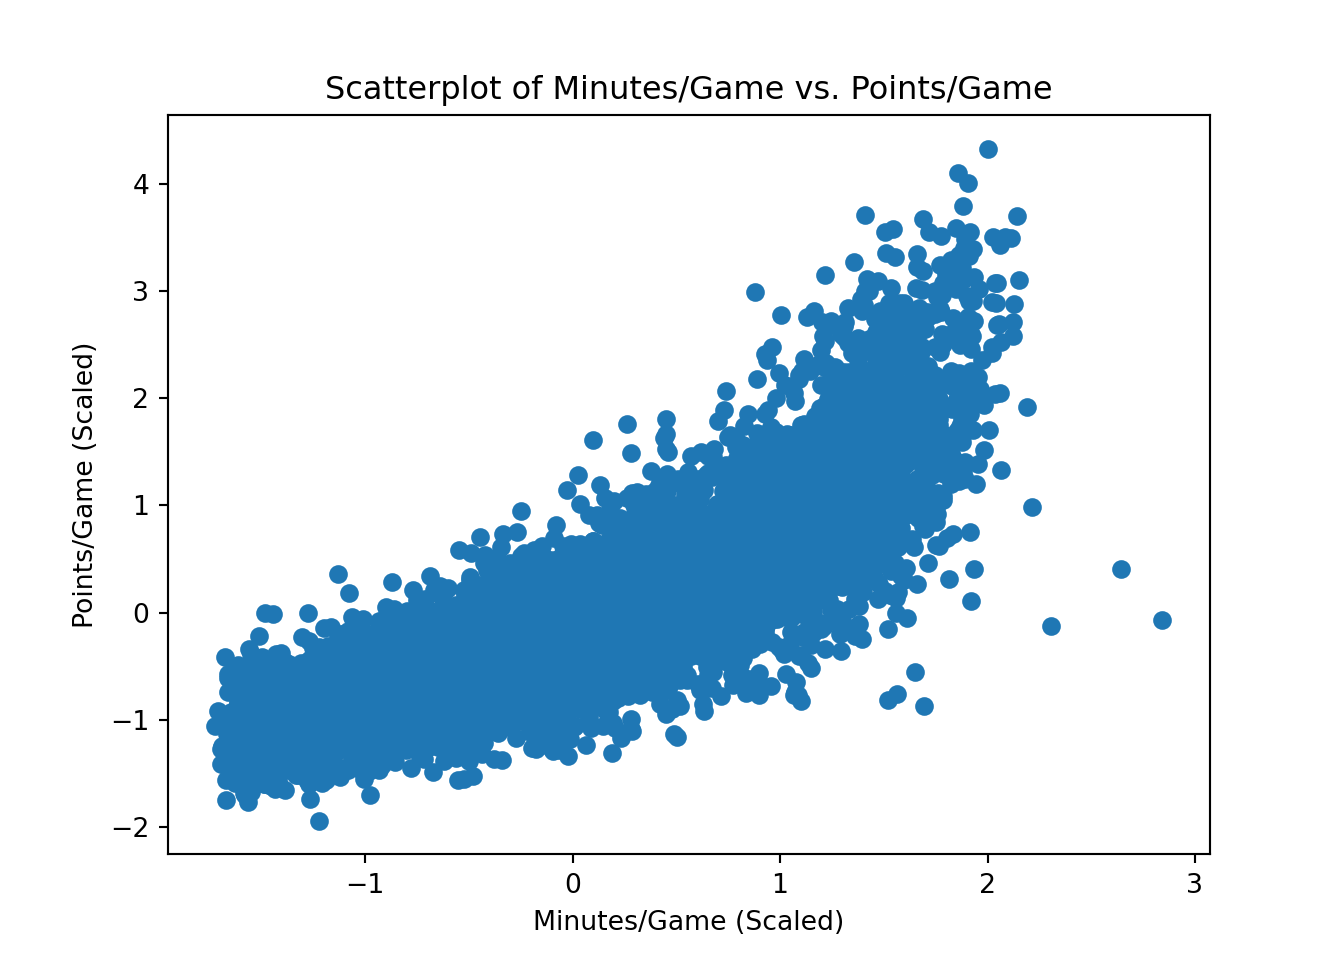
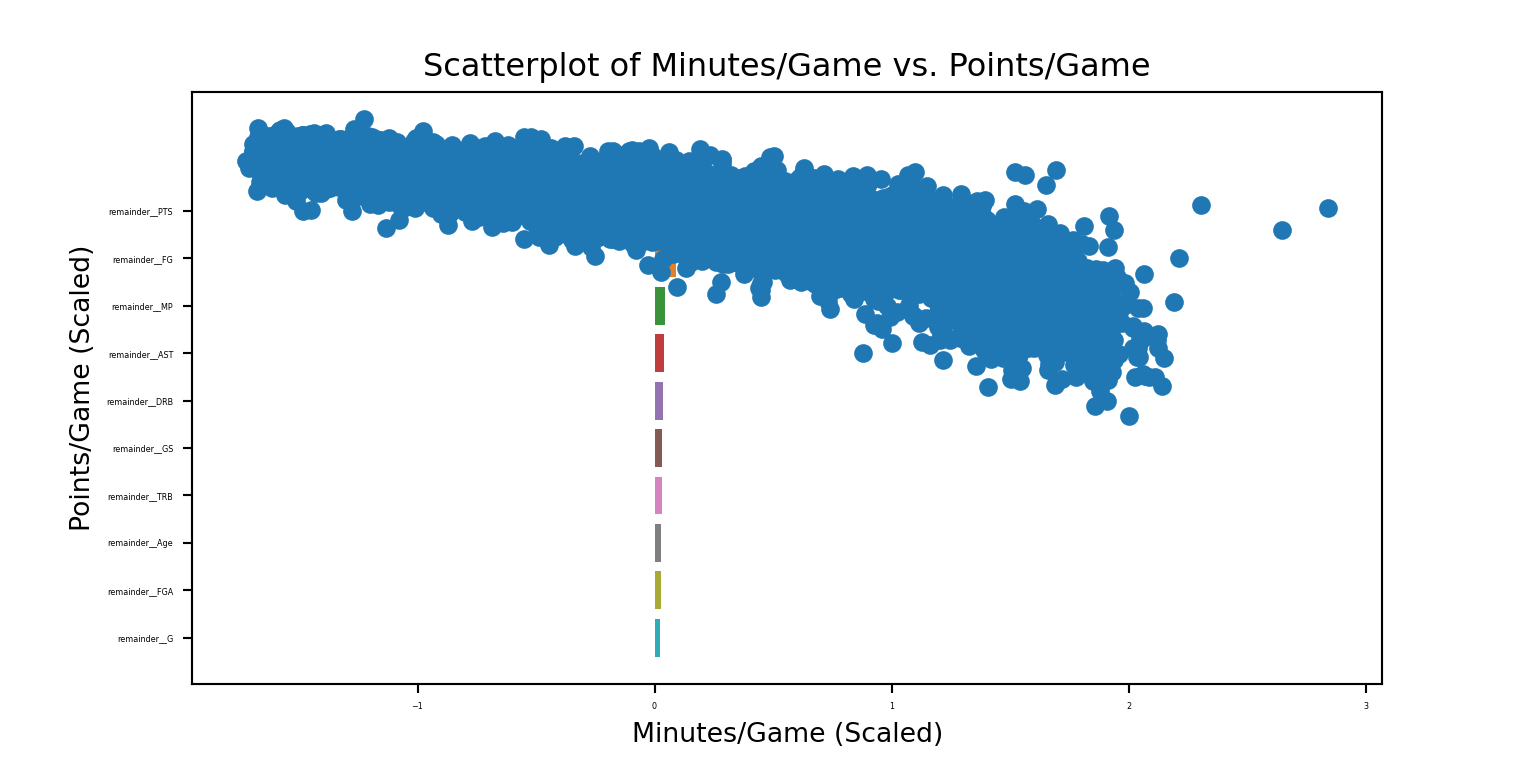
update importance bug

diff --git a/docs/index.html b/docs/index.html
@@ -395,7 +395,7 @@ set.</p>
 generally have better stats than the average player; it is also important to remember that minutes played per game
 likely plays a large role in statistics as well. Let’s take a look at some of these variables visually.</p>
 <p>First, let’s see how minutes and points correlate.
-<img src="bookdownproj_files/figure-html/unnamed-chunk-21-1.png" width="672" /></p>
+<img src="bookdownproj_files/figure-html/unnamed-chunk-21-1.png" width="768" /></p>
 <p>As we can see, there is a pretty clear positive, linear relationship between the variables. However, one thing
 to note is how after the scaled minutes per game value exceeds 1, the points per game values seem to increase at a
 slightly steeper rate. This could be, as previously mentioned, the fact that the best players play the most
@@ -406,18 +406,18 @@ minutes and are also the ones scoring the most points.</p>
 <span id="cb23-3"><a href="#cb23-3" aria-hidden="true" tabindex="-1"></a>plt.title(<span class="st">&#39;Boxplot of Points/Game by All-Star Status&#39;</span>)</span>
 <span id="cb23-4"><a href="#cb23-4" aria-hidden="true" tabindex="-1"></a>plt.xlabel(<span class="st">&#39;All-Star Status&#39;</span>)</span>
 <span id="cb23-5"><a href="#cb23-5" aria-hidden="true" tabindex="-1"></a>plt.ylabel(<span class="st">&#39;Points/Game (Scaled)&#39;</span>)</span></code></pre></div>
-<p><img src="bookdownproj_files/figure-html/unnamed-chunk-22-3.png" width="672" />
+<p><img src="bookdownproj_files/figure-html/unnamed-chunk-22-3.png" width="768" />
 Unsurprisingly, All-Stars generally score at a much more standout level than their peers. In fact,
 the median scoring value for an All-Star is about 2 standard deviations from league standard, which encompasses
 roughly the top 5% of scorers in the league. It is also noted that there were outliers for All-Stars that scored
 below the league standard.</p>
 <p>Next, let’s look at how field goal % compares across All-Star status.
-<img src="bookdownproj_files/figure-html/unnamed-chunk-23-5.png" width="672" /></p>
+<img src="bookdownproj_files/figure-html/unnamed-chunk-23-5.png" width="768" /></p>
 <p>Interesting to see how the medians across both groups are roughly at 0, or league standard. However, the most
 notable observation here is how the spread of the non-All-Stars is vastly larger than the All-Stars, stretching
 down as far as nearly 8 standard deviations below the mean.</p>
 <p>Lastly, let’s look at a correlation matrix across all of our variables.
-<img src="bookdownproj_files/figure-html/unnamed-chunk-24-7.png" width="672" /></p>
+<img src="bookdownproj_files/figure-html/unnamed-chunk-24-7.png" width="768" /></p>
 <p>While a bit difficult to interpret easily, there are a few interesting takeaways. First, Field Goal % seems to
 have a strong, negative correlation with other shooting statistics. This may represent players who
 take very few shots, but make them at a high clip, leaving them with high shooting percentages with low attempts.
@@ -464,7 +464,7 @@ the ROC curve (AUROC) to serve as our cross-validation metric.</p>
 <div class="sourceCode" id="cb30"><pre class="sourceCode python"><code class="sourceCode python"><span id="cb30-1"><a href="#cb30-1" aria-hidden="true" tabindex="-1"></a><span class="co">#Fit model</span></span>
 <span id="cb30-2"><a href="#cb30-2" aria-hidden="true" tabindex="-1"></a>tick <span class="op">=</span> time.time()</span>
 <span id="cb30-3"><a href="#cb30-3" aria-hidden="true" tabindex="-1"></a>clf.fit(X_train,Y_train)</span></code></pre></div>
-<style>#sk-container-id-1 {color: black;background-color: white;}#sk-container-id-1 pre{padding: 0;}#sk-container-id-1 div.sk-toggleable {background-color: white;}#sk-container-id-1 label.sk-toggleable__label {cursor: pointer;display: block;width: 100%;margin-bottom: 0;padding: 0.3em;box-sizing: border-box;text-align: center;}#sk-container-id-1 label.sk-toggleable__label-arrow:before {content: "▸";float: left;margin-right: 0.25em;color: #696969;}#sk-container-id-1 label.sk-toggleable__label-arrow:hover:before {color: black;}#sk-container-id-1 div.sk-estimator:hover label.sk-toggleable__label-arrow:before {color: black;}#sk-container-id-1 div.sk-toggleable__content {max-height: 0;max-width: 0;overflow: hidden;text-align: left;background-color: #f0f8ff;}#sk-container-id-1 div.sk-toggleable__content pre {margin: 0.2em;color: black;border-radius: 0.25em;background-color: #f0f8ff;}#sk-container-id-1 input.sk-toggleable__control:checked~div.sk-toggleable__content {max-height: 200px;max-width: 100%;overflow: auto;}#sk-container-id-1 input.sk-toggleable__control:checked~label.sk-toggleable__label-arrow:before {content: "▾";}#sk-container-id-1 div.sk-estimator input.sk-toggleable__control:checked~label.sk-toggleable__label {background-color: #d4ebff;}#sk-container-id-1 div.sk-label input.sk-toggleable__control:checked~label.sk-toggleable__label {background-color: #d4ebff;}#sk-container-id-1 input.sk-hidden--visually {border: 0;clip: rect(1px 1px 1px 1px);clip: rect(1px, 1px, 1px, 1px);height: 1px;margin: -1px;overflow: hidden;padding: 0;position: absolute;width: 1px;}#sk-container-id-1 div.sk-estimator {font-family: monospace;background-color: #f0f8ff;border: 1px dotted black;border-radius: 0.25em;box-sizing: border-box;margin-bottom: 0.5em;}#sk-container-id-1 div.sk-estimator:hover {background-color: #d4ebff;}#sk-container-id-1 div.sk-parallel-item::after {content: "";width: 100%;border-bottom: 1px solid gray;flex-grow: 1;}#sk-container-id-1 div.sk-label:hover label.sk-toggleable__label {background-color: #d4ebff;}#sk-container-id-1 div.sk-serial::before {content: "";position: absolute;border-left: 1px solid gray;box-sizing: border-box;top: 0;bottom: 0;left: 50%;z-index: 0;}#sk-container-id-1 div.sk-serial {display: flex;flex-direction: column;align-items: center;background-color: white;padding-right: 0.2em;padding-left: 0.2em;position: relative;}#sk-container-id-1 div.sk-item {position: relative;z-index: 1;}#sk-container-id-1 div.sk-parallel {display: flex;align-items: stretch;justify-content: center;background-color: white;position: relative;}#sk-container-id-1 div.sk-item::before, #sk-container-id-1 div.sk-parallel-item::before {content: "";position: absolute;border-left: 1px solid gray;box-sizing: border-box;top: 0;bottom: 0;left: 50%;z-index: -1;}#sk-container-id-1 div.sk-parallel-item {display: flex;flex-direction: column;z-index: 1;position: relative;background-color: white;}#sk-container-id-1 div.sk-parallel-item:first-child::after {align-self: flex-end;width: 50%;}#sk-container-id-1 div.sk-parallel-item:last-child::after {align-self: flex-start;width: 50%;}#sk-container-id-1 div.sk-parallel-item:only-child::after {width: 0;}#sk-container-id-1 div.sk-dashed-wrapped {border: 1px dashed gray;margin: 0 0.4em 0.5em 0.4em;box-sizing: border-box;padding-bottom: 0.4em;background-color: white;}#sk-container-id-1 div.sk-label label {font-family: monospace;font-weight: bold;display: inline-block;line-height: 1.2em;}#sk-container-id-1 div.sk-label-container {text-align: center;}#sk-container-id-1 div.sk-container {/* jupyter's `normalize.less` sets `[hidden] { display: none; }` but bootstrap.min.css set `[hidden] { display: none !important; }` so we also need the `!important` here to be able to override the default hidden behavior on the sphinx rendered scikit-learn.org. See: https://github.com/scikit-learn/scikit-learn/issues/21755 */display: inline-block !important;position: relative;}#sk-container-id-1 div.sk-text-repr-fallback {display: none;}</style><div id="sk-container-id-1" class="sk-top-container"><div class="sk-text-repr-fallback"><pre>GridSearchCV(cv=RepeatedStratifiedKFold(n_repeats=3, n_splits=10, random_state=0),
+<style>#sk-container-id-2 {color: black;background-color: white;}#sk-container-id-2 pre{padding: 0;}#sk-container-id-2 div.sk-toggleable {background-color: white;}#sk-container-id-2 label.sk-toggleable__label {cursor: pointer;display: block;width: 100%;margin-bottom: 0;padding: 0.3em;box-sizing: border-box;text-align: center;}#sk-container-id-2 label.sk-toggleable__label-arrow:before {content: "▸";float: left;margin-right: 0.25em;color: #696969;}#sk-container-id-2 label.sk-toggleable__label-arrow:hover:before {color: black;}#sk-container-id-2 div.sk-estimator:hover label.sk-toggleable__label-arrow:before {color: black;}#sk-container-id-2 div.sk-toggleable__content {max-height: 0;max-width: 0;overflow: hidden;text-align: left;background-color: #f0f8ff;}#sk-container-id-2 div.sk-toggleable__content pre {margin: 0.2em;color: black;border-radius: 0.25em;background-color: #f0f8ff;}#sk-container-id-2 input.sk-toggleable__control:checked~div.sk-toggleable__content {max-height: 200px;max-width: 100%;overflow: auto;}#sk-container-id-2 input.sk-toggleable__control:checked~label.sk-toggleable__label-arrow:before {content: "▾";}#sk-container-id-2 div.sk-estimator input.sk-toggleable__control:checked~label.sk-toggleable__label {background-color: #d4ebff;}#sk-container-id-2 div.sk-label input.sk-toggleable__control:checked~label.sk-toggleable__label {background-color: #d4ebff;}#sk-container-id-2 input.sk-hidden--visually {border: 0;clip: rect(1px 1px 1px 1px);clip: rect(1px, 1px, 1px, 1px);height: 1px;margin: -1px;overflow: hidden;padding: 0;position: absolute;width: 1px;}#sk-container-id-2 div.sk-estimator {font-family: monospace;background-color: #f0f8ff;border: 1px dotted black;border-radius: 0.25em;box-sizing: border-box;margin-bottom: 0.5em;}#sk-container-id-2 div.sk-estimator:hover {background-color: #d4ebff;}#sk-container-id-2 div.sk-parallel-item::after {content: "";width: 100%;border-bottom: 1px solid gray;flex-grow: 1;}#sk-container-id-2 div.sk-label:hover label.sk-toggleable__label {background-color: #d4ebff;}#sk-container-id-2 div.sk-serial::before {content: "";position: absolute;border-left: 1px solid gray;box-sizing: border-box;top: 0;bottom: 0;left: 50%;z-index: 0;}#sk-container-id-2 div.sk-serial {display: flex;flex-direction: column;align-items: center;background-color: white;padding-right: 0.2em;padding-left: 0.2em;position: relative;}#sk-container-id-2 div.sk-item {position: relative;z-index: 1;}#sk-container-id-2 div.sk-parallel {display: flex;align-items: stretch;justify-content: center;background-color: white;position: relative;}#sk-container-id-2 div.sk-item::before, #sk-container-id-2 div.sk-parallel-item::before {content: "";position: absolute;border-left: 1px solid gray;box-sizing: border-box;top: 0;bottom: 0;left: 50%;z-index: -1;}#sk-container-id-2 div.sk-parallel-item {display: flex;flex-direction: column;z-index: 1;position: relative;background-color: white;}#sk-container-id-2 div.sk-parallel-item:first-child::after {align-self: flex-end;width: 50%;}#sk-container-id-2 div.sk-parallel-item:last-child::after {align-self: flex-start;width: 50%;}#sk-container-id-2 div.sk-parallel-item:only-child::after {width: 0;}#sk-container-id-2 div.sk-dashed-wrapped {border: 1px dashed gray;margin: 0 0.4em 0.5em 0.4em;box-sizing: border-box;padding-bottom: 0.4em;background-color: white;}#sk-container-id-2 div.sk-label label {font-family: monospace;font-weight: bold;display: inline-block;line-height: 1.2em;}#sk-container-id-2 div.sk-label-container {text-align: center;}#sk-container-id-2 div.sk-container {/* jupyter's `normalize.less` sets `[hidden] { display: none; }` but bootstrap.min.css set `[hidden] { display: none !important; }` so we also need the `!important` here to be able to override the default hidden behavior on the sphinx rendered scikit-learn.org. See: https://github.com/scikit-learn/scikit-learn/issues/21755 */display: inline-block !important;position: relative;}#sk-container-id-2 div.sk-text-repr-fallback {display: none;}</style><div id="sk-container-id-2" class="sk-top-container"><div class="sk-text-repr-fallback"><pre>GridSearchCV(cv=RepeatedStratifiedKFold(n_repeats=3, n_splits=10, random_state=0),
              estimator=XGBRegressor(base_score=None, booster=None,
                                     callbacks=None, colsample_bylevel=None,
                                     colsample_bynode=None,
@@ -483,7 +483,7 @@ the ROC curve (AUROC) to serve as our cross-validation metric.</p>
              param_grid={&#x27;max_depth&#x27;: [10, 15, 20],
                          &#x27;min_samples_split&#x27;: [5, 10],
                          &#x27;n_estimators&#x27;: [200, 400, 600]},
-             scoring=&#x27;roc_auc&#x27;)</pre><b>In a Jupyter environment, please rerun this cell to show the HTML representation or trust the notebook. <br />On GitHub, the HTML representation is unable to render, please try loading this page with nbviewer.org.</b></div><div class="sk-container" hidden><div class="sk-item sk-dashed-wrapped"><div class="sk-label-container"><div class="sk-label sk-toggleable"><input class="sk-toggleable__control sk-hidden--visually" id="sk-estimator-id-1" type="checkbox" ><label for="sk-estimator-id-1" class="sk-toggleable__label sk-toggleable__label-arrow">GridSearchCV</label><div class="sk-toggleable__content"><pre>GridSearchCV(cv=RepeatedStratifiedKFold(n_repeats=3, n_splits=10, random_state=0),
+             scoring=&#x27;roc_auc&#x27;)</pre><b>In a Jupyter environment, please rerun this cell to show the HTML representation or trust the notebook. <br />On GitHub, the HTML representation is unable to render, please try loading this page with nbviewer.org.</b></div><div class="sk-container" hidden><div class="sk-item sk-dashed-wrapped"><div class="sk-label-container"><div class="sk-label sk-toggleable"><input class="sk-toggleable__control sk-hidden--visually" id="sk-estimator-id-4" type="checkbox" ><label for="sk-estimator-id-4" class="sk-toggleable__label sk-toggleable__label-arrow">GridSearchCV</label><div class="sk-toggleable__content"><pre>GridSearchCV(cv=RepeatedStratifiedKFold(n_repeats=3, n_splits=10, random_state=0),
              estimator=XGBRegressor(base_score=None, booster=None,
                                     callbacks=None, colsample_bylevel=None,
                                     colsample_bynode=None,
@@ -502,7 +502,7 @@ the ROC curve (AUROC) to serve as our cross-validation metric.</p>
              param_grid={&#x27;max_depth&#x27;: [10, 15, 20],
                          &#x27;min_samples_split&#x27;: [5, 10],
                          &#x27;n_estimators&#x27;: [200, 400, 600]},
-             scoring=&#x27;roc_auc&#x27;)</pre></div></div></div><div class="sk-parallel"><div class="sk-parallel-item"><div class="sk-item"><div class="sk-label-container"><div class="sk-label sk-toggleable"><input class="sk-toggleable__control sk-hidden--visually" id="sk-estimator-id-2" type="checkbox" ><label for="sk-estimator-id-2" class="sk-toggleable__label sk-toggleable__label-arrow">estimator: XGBRegressor</label><div class="sk-toggleable__content"><pre>XGBRegressor(base_score=None, booster=None, callbacks=None,
+             scoring=&#x27;roc_auc&#x27;)</pre></div></div></div><div class="sk-parallel"><div class="sk-parallel-item"><div class="sk-item"><div class="sk-label-container"><div class="sk-label sk-toggleable"><input class="sk-toggleable__control sk-hidden--visually" id="sk-estimator-id-5" type="checkbox" ><label for="sk-estimator-id-5" class="sk-toggleable__label sk-toggleable__label-arrow">estimator: XGBRegressor</label><div class="sk-toggleable__content"><pre>XGBRegressor(base_score=None, booster=None, callbacks=None,
              colsample_bylevel=None, colsample_bynode=None,
              colsample_bytree=None, early_stopping_rounds=None,
              enable_categorical=False, eval_metric=None, feature_types=None,
@@ -512,7 +512,7 @@ the ROC curve (AUROC) to serve as our cross-validation metric.</p>
              max_delta_step=None, max_depth=None, max_leaves=None,
              min_child_weight=None, missing=nan, monotone_constraints=None,
              n_estimators=100, n_jobs=None, num_parallel_tree=None,
-             objective=&#x27;binary:logistic&#x27;, predictor=None, ...)</pre></div></div></div><div class="sk-serial"><div class="sk-item"><div class="sk-estimator sk-toggleable"><input class="sk-toggleable__control sk-hidden--visually" id="sk-estimator-id-3" type="checkbox" ><label for="sk-estimator-id-3" class="sk-toggleable__label sk-toggleable__label-arrow">XGBRegressor</label><div class="sk-toggleable__content"><pre>XGBRegressor(base_score=None, booster=None, callbacks=None,
+             objective=&#x27;binary:logistic&#x27;, predictor=None, ...)</pre></div></div></div><div class="sk-serial"><div class="sk-item"><div class="sk-estimator sk-toggleable"><input class="sk-toggleable__control sk-hidden--visually" id="sk-estimator-id-6" type="checkbox" ><label for="sk-estimator-id-6" class="sk-toggleable__label sk-toggleable__label-arrow">XGBRegressor</label><div class="sk-toggleable__content"><pre>XGBRegressor(base_score=None, booster=None, callbacks=None,
              colsample_bylevel=None, colsample_bynode=None,
              colsample_bytree=None, early_stopping_rounds=None,
              enable_categorical=False, eval_metric=None, feature_types=None,
@@ -544,8 +544,7 @@ our All-Stars from the non All-Stars.</p>
 <p><strong>Variable Importance</strong></p>
 <p>Let’s now look at which variables had the biggest impact on our model’s predictions. We will limit this
 to the top 10 most impactful predictors.</p>
-<pre><code>## (array([0, 1, 2, 3, 4, 5, 6, 7, 8, 9]), [Text(0, 0, &#39;remainder__PTS&#39;), Text(0, 1, &#39;remainder__FG&#39;), Text(0, 2, &#39;remainder__MP&#39;), Text(0, 3, &#39;remainder__AST&#39;), Text(0, 4, &#39;remainder__DRB&#39;), Text(0, 5, &#39;remainder__GS&#39;), Text(0, 6, &#39;remainder__TRB&#39;), Text(0, 7, &#39;remainder__Age&#39;), Text(0, 8, &#39;remainder__FGA&#39;), Text(0, 9, &#39;remainder__G&#39;)])</code></pre>
-<pre><code>## (array([0.  , 0.05, 0.1 , 0.15, 0.2 , 0.25, 0.3 , 0.35, 0.4 ]), [Text(0, 0, &#39;&#39;), Text(0, 0, &#39;&#39;), Text(0, 0, &#39;&#39;), Text(0, 0, &#39;&#39;), Text(0, 0, &#39;&#39;), Text(0, 0, &#39;&#39;), Text(0, 0, &#39;&#39;), Text(0, 0, &#39;&#39;), Text(0, 0, &#39;&#39;)])</code></pre>
+<p><img src="bookdownproj_files/figure-html/unnamed-chunk-39-11.png" width="768" /></p>
 <p>Unsurprisingly, points per game was by far the most important variable to our model’s predictions. Intuitively,
 seeing field goals made per game following it in second place makes sense as well, as the variables would be
 highly correlated (more made shots = more points).</p>
